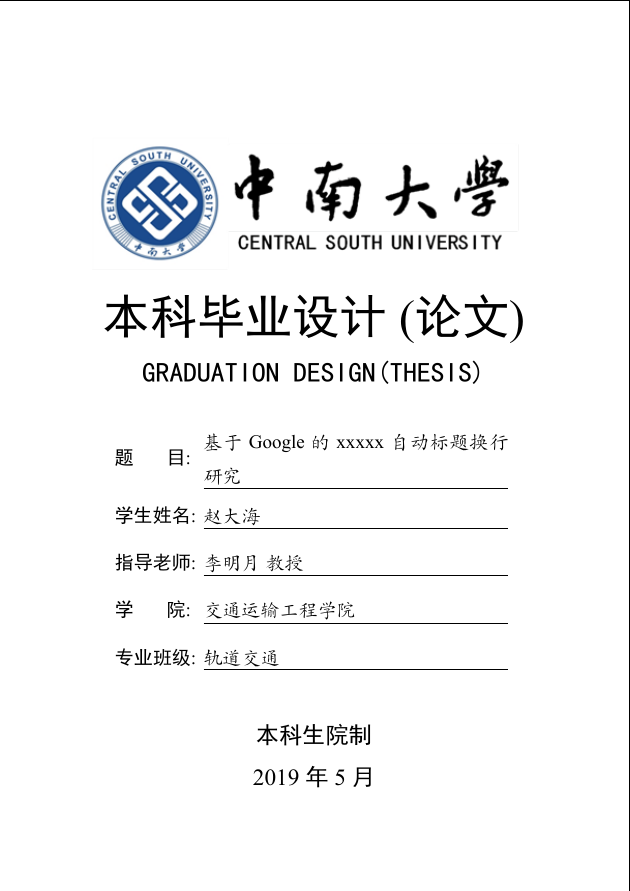
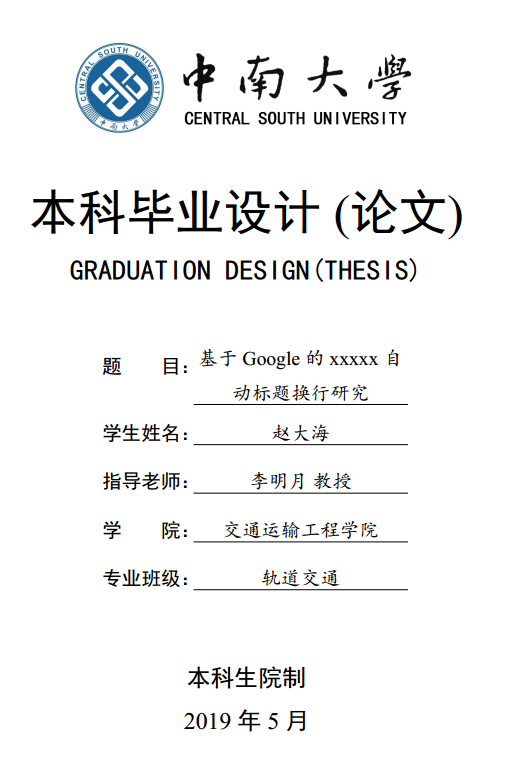
替换封面图片，对make进行了点简单的说明

diff --git a/README.md b/README.md
@@ -68,6 +68,7 @@ LaTeX利用设置好的模板，可以编译为格式统一的pdf。
 
 
 `additional.tex`：致谢、附录之类的。
+`subchapters/` : 内容分章节往里填就可以了
 
 
 ### `csuthesis_main.tex`
@@ -84,7 +85,9 @@ LaTeX利用设置好的模板，可以编译为格式统一的pdf。
 
 ### 如果你使用命令行编译
 > 请使用`xelatex`，对`csuthesis_main.tex`文件进行编译。
-> 在linux下可以使用`make`编译。
+> 在linux下可以使用`make`编译(MacOS未测试)
+> 需要latexmk和wordcount支持。
+`make {all|wordcount|clean|cleanall|view|zip`
 
 ### 如果你使用TexStudio等IDE
 > 可以从content的任意章节开始编译，也可以从`csuthesis_main.tex`开始。
